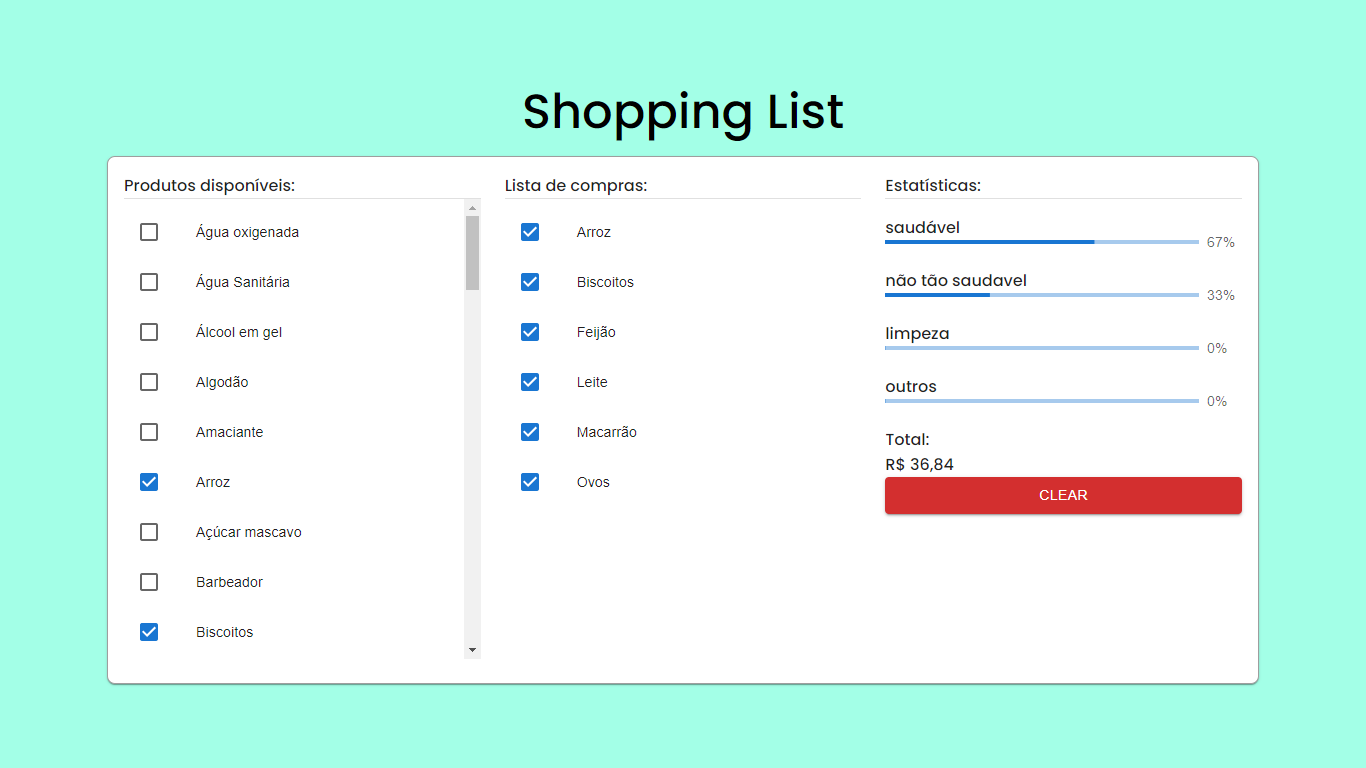
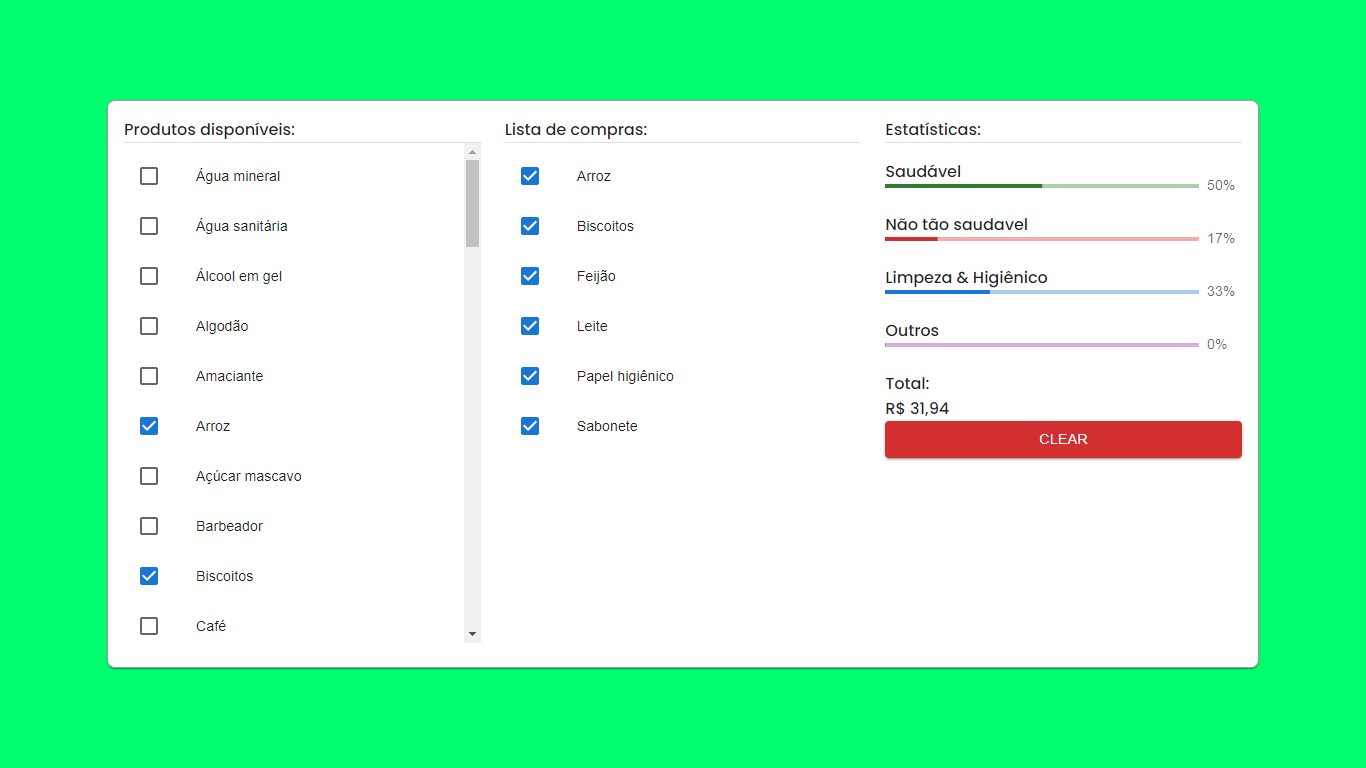
add tooltip

diff --git a/src/components/StatisticList.js b/src/components/StatisticList.js
@@ -1,7 +1,7 @@
-import { Box, Divider, Button } from '@mui/material';
+import { Box, Divider, Button } from "@mui/material";
 import { useDispatch, useSelector } from "react-redux";
 import { clearList } from "../store/slices/productSlice";
-import ProgressBar from './ProgressBar';
+import ProgressBar from "./ProgressBar";
 
 const StatisticList = ({ title, total }) => {
     const dispatch = useDispatch();
@@ -21,7 +21,7 @@ const StatisticList = ({ title, total }) => {
                 color="success"
                 percentage={extractPercentage(
                     selectedProduct.length,
-                    selectedProduct.filter((product) => product.tags.includes('healthy')).length
+                    selectedProduct.filter((product) => product.tags.includes("healthy")).length
                 )}
             />
             <ProgressBar
@@ -29,7 +29,7 @@ const StatisticList = ({ title, total }) => {
                 color="error"
                 percentage={extractPercentage(
                     selectedProduct.length,
-                    selectedProduct.filter((product) => product.tags.includes('junk')).length
+                    selectedProduct.filter((product) => product.tags.includes("junk")).length
                 )}
             />
             <ProgressBar
@@ -37,7 +37,7 @@ const StatisticList = ({ title, total }) => {
                 color="primary"
                 percentage={extractPercentage(
                     selectedProduct.length,
-                    selectedProduct.filter((product) => product.tags.includes('cleaning') || product.tags.includes('hygiene')).length
+                    selectedProduct.filter((product) => product.tags.includes("cleaning") || product.tags.includes("hygiene")).length
                 )}
             />
             <ProgressBar
@@ -45,17 +45,17 @@ const StatisticList = ({ title, total }) => {
                 color="secondary"
                 percentage={extractPercentage(
                     selectedProduct.length,
-                    selectedProduct.filter((product) => !product.tags.includes('healthy') && !product.tags.includes('junk') && !product.tags.includes('cleaning') && !product.tags.includes('hygiene')).length
+                    selectedProduct.filter((product) => !product.tags.includes("healthy") && !product.tags.includes("junk") && !product.tags.includes("cleaning") && !product.tags.includes("hygiene")).length
                 )}
             />
 
             <Box>
                 Total:
                 <p>
-                    {total.toLocaleString('pt-br', {
+                    {total.toLocaleString("pt-br", {
                         minimumFractionDigits: 2,
-                        style: 'currency',
-                        currency: 'BRL'
+                        style: "currency",
+                        currency: "BRL"
                     })}
                 </p>
                 {

diff --git a/src/components/Item.js b/src/components/Item.js
@@ -1,23 +1,37 @@
-import { ListItem, ListItemButton, ListItemIcon, ListItemText, Checkbox } from "@mui/material";
+import { Tooltip, ListItem, ListItemButton, ListItemIcon, ListItemText, Checkbox } from "@mui/material";
 
 const Item = ({ item, onClick }) => {
+    const description = (
+        <div>
+            ID: {item.id}<br />
+            Nome: {item.name}<br />
+            Preço: {item.price.toLocaleString("pt-br", {
+                minimumFractionDigits: 2,
+                style: "currency",
+                currency: "BRL"
+            })}<br />
+            Tags: {item.tags.join(", ")}
+        </div>
+    );
+
     return (
         <ListItem
             key={item.id}
-            secondaryAction={<ListItemText primary={`R$ ${item.price}`} />}
             disablePadding
         >
-            <ListItemButton role={undefined} onClick={onClick} dense>
-                <ListItemIcon>
-                    <Checkbox
-                        edge="start"
-                        checked={item.checked}
-                        tabIndex={-1}
-                        disableRipple
-                    />
-                </ListItemIcon>
-                <ListItemText primary={item.name} />
-            </ListItemButton>
+            <Tooltip title={description} placement="right" arrow disableInteractive>
+                <ListItemButton role={undefined} onClick={onClick} dense>
+                    <ListItemIcon>
+                        <Checkbox
+                            edge="start"
+                            checked={item.checked}
+                            tabIndex={-1}
+                            disableRipple
+                        />
+                    </ListItemIcon>
+                    <ListItemText primary={item.name} />
+                </ListItemButton>
+            </Tooltip>
         </ListItem>
     );
 }

diff --git a/src/pages/Home.js b/src/pages/Home.js
@@ -2,7 +2,6 @@ import { Box, Container } from "@mui/material";
 import AppContent from "../components/AppContent";
 import ShoppingList from "../components/ShoppingList";
 import StatisticList from "../components/StatisticList";
-import Title from "../components/Title";
 
 import { useDispatch, useSelector } from "react-redux";
 import { toggleProduct } from "../store/slices/productSlice";
@@ -19,14 +18,13 @@ const Home = () => {
 
     return (
         <Box sx={{
-            display: 'flex',
-            justifyContent: 'center',
-            alignItems: 'center',
-            backgroundColor: '#a3ffe7',
-            height: '100vh',
+            display: "flex",
+            justifyContent: "center",
+            alignItems: "center",
+            backgroundColor: "#00ff6f",
+            height: "100vh",
         }}>
             <Container maxWidth="lg">
-                <Title title="Shopping List" />
                 <AppContent
                     left={
                         <ShoppingList

diff --git a/src/components/ProgressBar.js b/src/components/ProgressBar.js
@@ -4,8 +4,8 @@ const ProgressBar = ({ title, percentage, color }) => {
     const porcentagem = percentage ? percentage : 0;
 
     return (
-        <Box sx={{ display: 'flex', alignItems: 'center' }}>
-            <Box sx={{ width: '100%', mr: 1, mb: 3 }}>
+        <Box sx={{ display: "flex", alignItems: "center" }}>
+            <Box sx={{ width: "100%", mr: 1, mb: 3 }}>
                 {title}
                 <LinearProgress variant="determinate" value={porcentagem} color={color} />
             </Box>

diff --git a/src/components/AppContent.js b/src/components/AppContent.js
@@ -1,12 +1,12 @@
-import { Card, CardContent, Grid } from '@mui/material';
+import { Card, CardContent, Grid } from "@mui/material";
 
 const AppContent = ({ left, middle, right }) => {
     return (
         <Card sx={{
             border: 1,
 			borderRadius: 2,
-            borderColor: 'grey.500',
-            overflow: 'auto',
+            borderColor: "grey.500",
+            overflow: "auto",
         }}>
             <CardContent>
                 <Grid container spacing={{ xs: 1, md: 3 }} >

diff --git a/src/components/ShoppingList.js b/src/components/ShoppingList.js
@@ -7,8 +7,8 @@ const ShoppingList = ({ title, data, onToggle }) => {
             {title}:
             <Divider />
             <List sx={{
-                height: 460,
-                overflow: 'auto',
+                height: 500,
+                overflow: "auto",
             }}>
                 {data.map((item) => (
                     <Item

diff --git a/README.md b/README.md
@@ -4,6 +4,10 @@
 
 **live demo: [https://shindi-shopping.netlify.app/](https://shindi-shopping.netlify.app/)**
 
+## Descrição
+
+Este projete é um SPA de carrinho de compras simples capaz de persistir itens do carrinho ao recarregar a página. Neste projeto, estaremos utilizando o framework React para criação do aplicativo, Redux para o gerenciamento de estado e Material UI para estilização do mesmo.
+
 ## Ferramentas utilizadas
 
 - [React](https://reactjs.org/)
